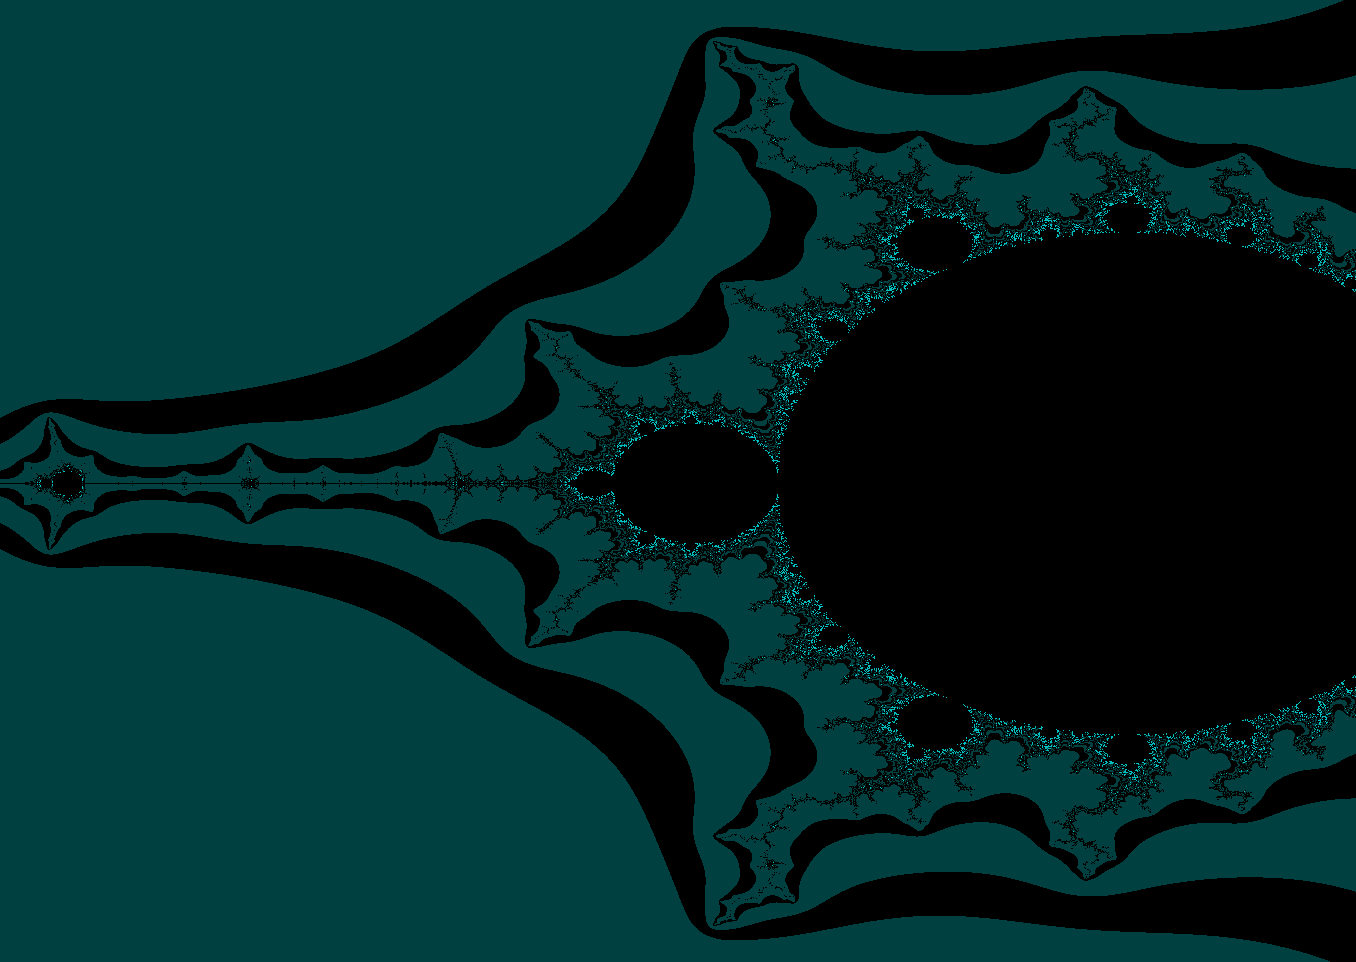
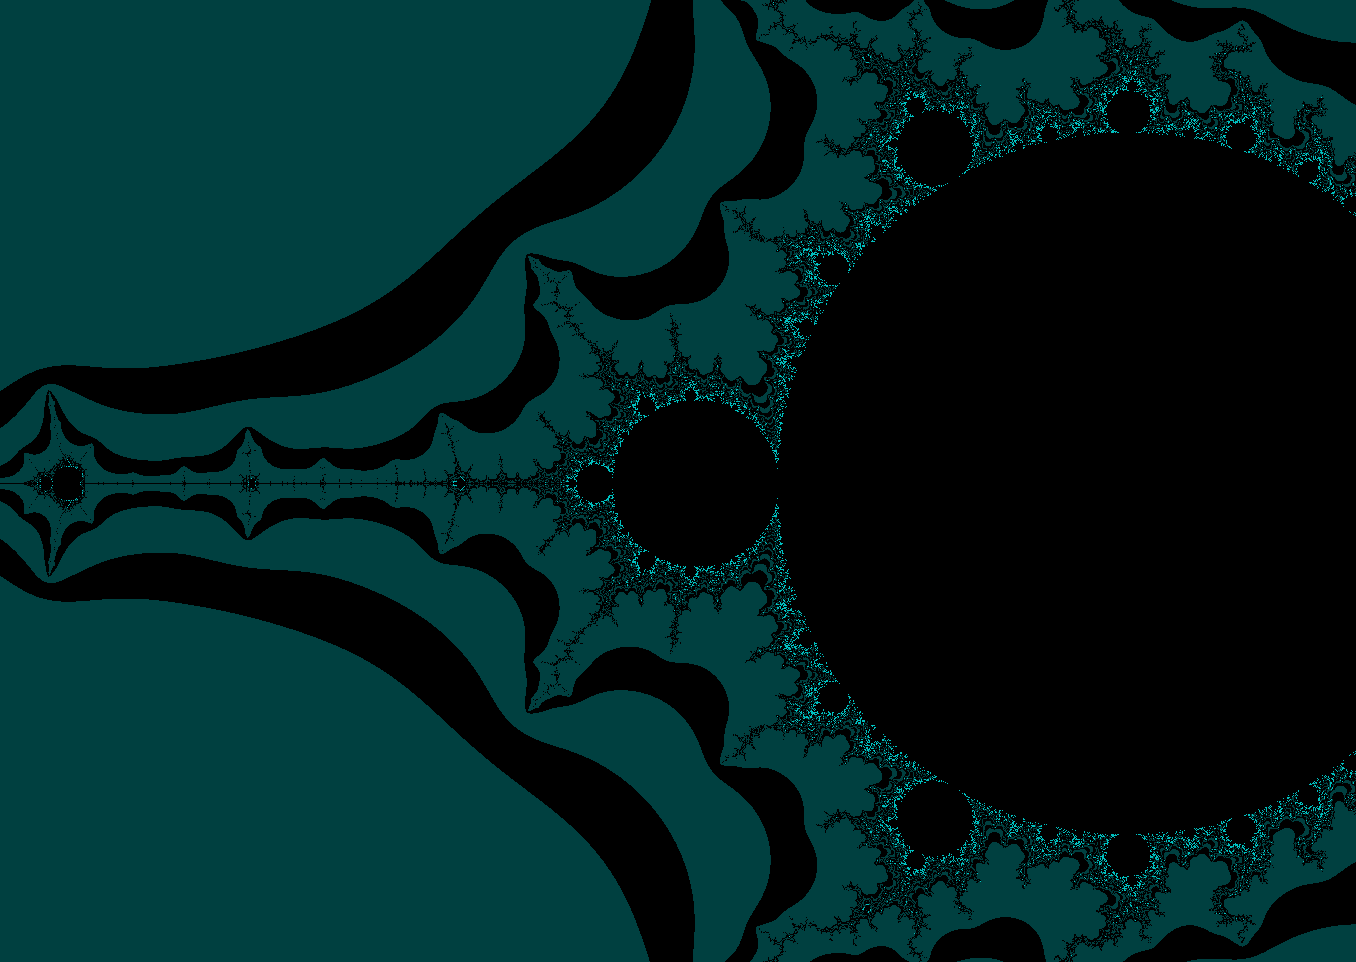
i had an elongated image of the set
now it is not

Changed region(s): [[0.0, 0.0, 1.0, 1.0]]

diff --git a/source/set_calc_naive.cpp b/source/set_calc_naive.cpp
@@ -24,7 +24,7 @@ void calculateSet(SDL_Renderer *renderer, const CoordData *data)
         float x0 = ( (            - WindowWidth  / 2.f) * dx ) * data->zoomMult +
                     CenterX + data->shiftX;
 
-        float y0 = ( ((float)curY - WindowHeight / 2.f) * dy ) * data->zoomMult +
+        float y0 = ( ((float)curY - WindowHeight / 2.f) * dx ) * data->zoomMult +
                     CenterY + data->shiftY;
 
         for (int curX = 0; curX < WindowWidth; curX++, x0 += dxZoomed)

diff --git a/source/set_calc_simd.cpp b/source/set_calc_simd.cpp
@@ -40,7 +40,7 @@ void calculateSet(SDL_Renderer *renderer, const CoordData *data)
         float x0 = ( (            - WindowWidth  / 2.f) * dx ) * data->zoomMult +
                     CenterX + data->shiftX;
 
-        float y0 = ( ((float)curY - WindowHeight / 2.f) * dy ) * data->zoomMult +
+        float y0 = ( ((float)curY - WindowHeight / 2.f) * dx ) * data->zoomMult +
                     CenterY + data->shiftY;
 
 
